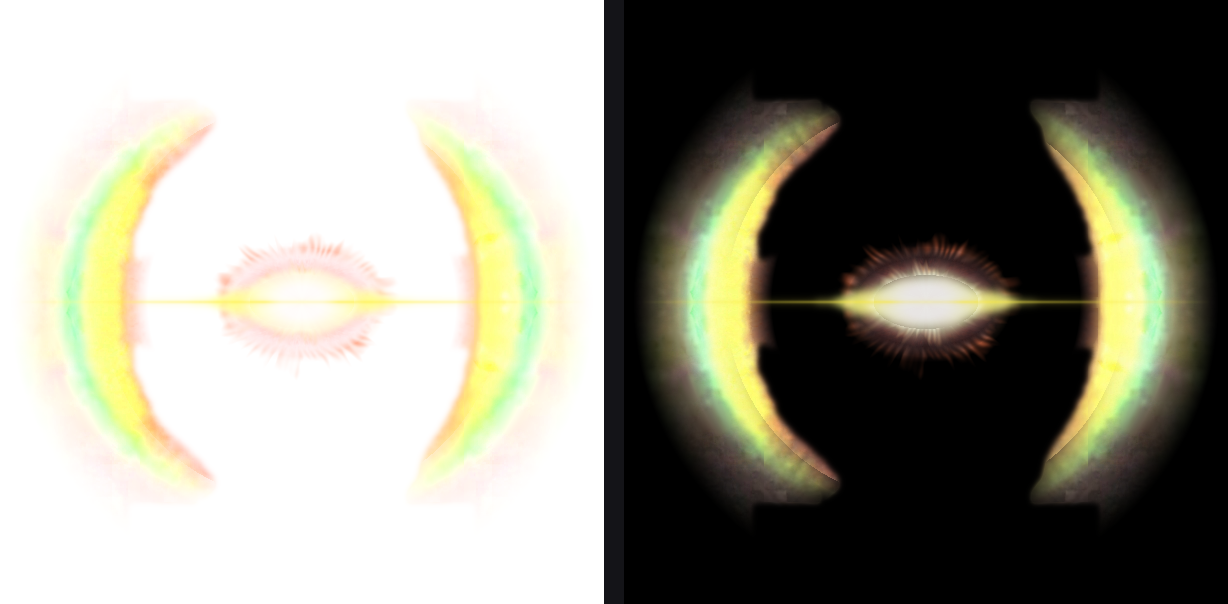
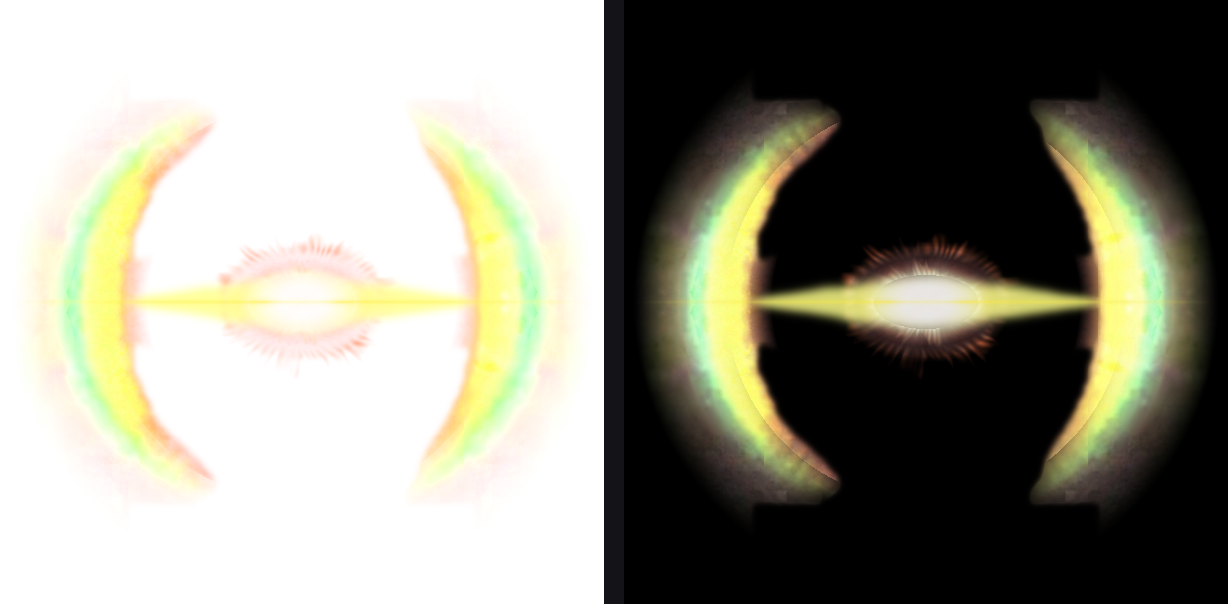
Efekt 10 kare 4: parantez bağlantısı titanyum boyunda başlayıp kenara doğru incelen bant
Claude-Session: https://claude.ai/code/session_01E9c1WiJsMc9gXSJZ9D4z6g

diff --git a/arayuz/araclar/efekt10/kare_04.py b/arayuz/araclar/efekt10/kare_04.py
@@ -10,7 +10,8 @@ from PIL import Image
 from scipy import ndimage
 B_=os.path.dirname(os.path.abspath(__file__)); K=os.path.join(B_,"..","..","kaynak","efekt10","kareler"); ONZ=os.path.join(B_,"..","..","onizlemeler")
 OLC=0.5; AZ=0.85                                      # merkez yapi olcegi (tum uzunlugun 1/3'u) ve azalma
-GOVDE_X,GOVDE_Y,BANT_Y,BANT_X=105.0*OLC,54.0*OLC,36.0*OLC,170.0*OLC
+GOVDE_X,GOVDE_Y=105.0*OLC,54.0*OLC
+BANT_Y,BANT_X=GOVDE_Y*0.9,170.0          # bant: titanyum boyunda baslar, paranteze kadar uzanip kenara dogru incelir
 IKINCI_KAT=0.50; CIZGI_OPAK=0.50; SARI=np.array([0xF7,0xE6,0x45],np.float32)/255
 a=np.asarray(Image.open(os.path.join(K,"kare_01.png")).convert("RGBA")).astype(np.float32)/255
 L=a[...,:3]*a[...,3:4]; H,W=L.shape[:2]; cy,cx=(H-1)/2,(W-1)/2
@@ -21,7 +22,7 @@ bos=np.clip((184-R)/30,0,1)*(1-sariyesil)
 L=L*(1-bos)[...,None]
 # 2) mercek bicimli titanyum beyaz: yari yukseklik profili h(x) -> govde (elips) + uca dogru incelen bant
 govde=GOVDE_Y*np.sqrt(np.clip(1-(ax/GOVDE_X)**2,0,1))
-bant=BANT_Y*(1-0.6*np.clip((ax-GOVDE_X*0.5)/(BANT_X-GOVDE_X*0.5),0,1)**0.8)*np.clip((BANT_X+10-ax)/20,0,1)   # kureden kalin cikar, paranteze dogru incelir
+bant=BANT_Y*(1-0.85*np.clip((ax-GOVDE_X*0.5)/(BANT_X-GOVDE_X*0.5),0,1)**0.8)*np.clip((BANT_X+10-ax)/20,0,1)   # kureden kalin cikar, paranteze dogru incelir
 h=np.maximum(govde,np.maximum(bant,0.01))
 h=ndimage.gaussian_filter1d(h,6,axis=1)                         # govde-bant gecisi yumusak (goz bicimi)
 rg=np.random.default_rng(31)
